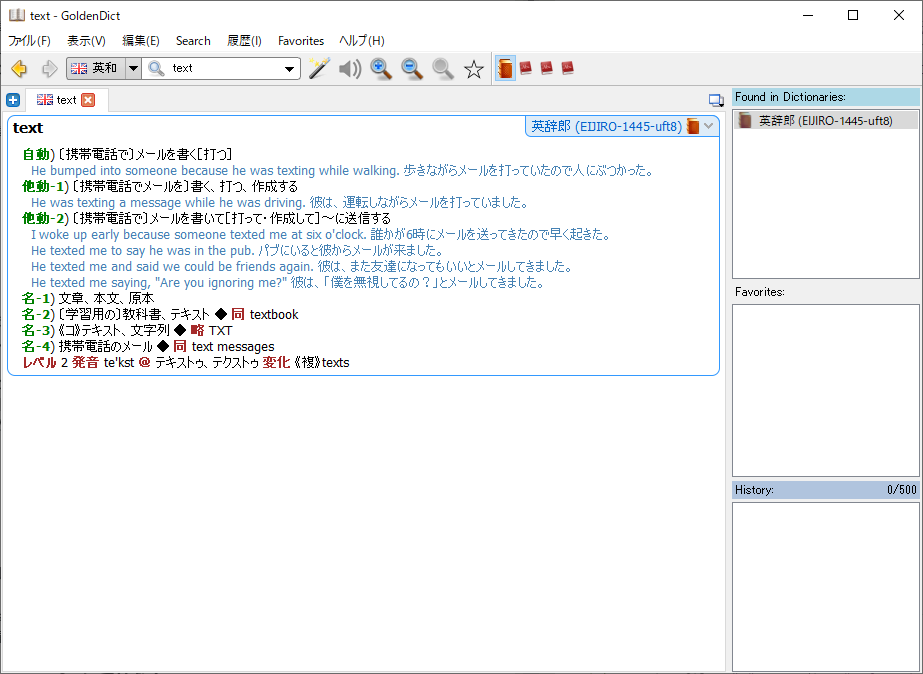
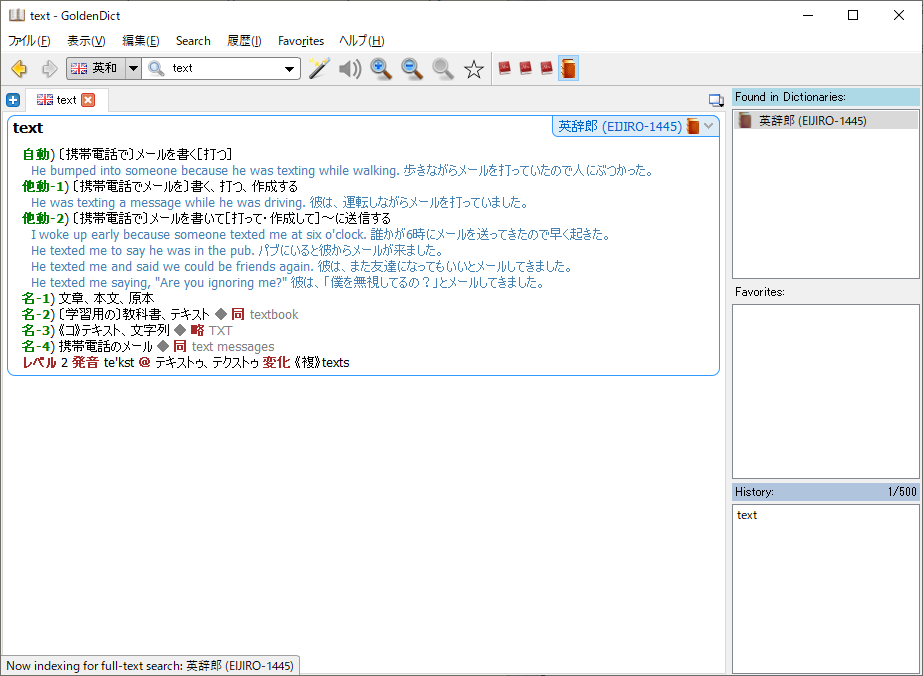
make comment fields gray.

diff --git a/jiro2dsl.py b/jiro2dsl.py
@@ -8,7 +8,7 @@ from lark import Lark, Transformer
 from rangestr import to_numbers
 
 
-def main(args):
+def main(argv):
     """英辞郎テキスト形式の辞書を Lingvo DSL 形式辞書に変換する．
 
     OUTFILE が省略された場合，infile の拡張子を ".dsl" に置換した名前
@@ -33,7 +33,7 @@ def main(args):
     および "1,2,4,5,6,9,10" はいずれも同じ意味として扱われる．
 
     """
-    jiro2dsl(parse_args(args))
+    jiro2dsl(parse_args(argv))
 
 
 def parse_args(argv):
@@ -124,7 +124,8 @@ class Jiro2DSL(Transformer):
                'body': ["trn"],
                'tagname': ["b", (" [c brown]", "[/c] ")],
                'example': [_m2, "ex"],
-               'comment': [(" [com]◆", "[/com]")],
+               # 'comment': [(" [com]◆", "[/com]")],
+               'comment': ["com", (" [c gray]◆", "[/c]")],
                'ref': [(" <<", ">>")], }
 
     def __init__(self):
@@ -166,6 +167,6 @@ def transform(entry, parser, formatter):
 
 
 test_arg = "-e utf-8 -l -10000 EIJIRO-1445-utf8.txt"
-args = sys.argv[1:] if sys.argv[0] else test_arg.split()
+argv = sys.argv[1:] if sys.argv[0] else test_arg.split()
 
-main(args)
+main(argv)
